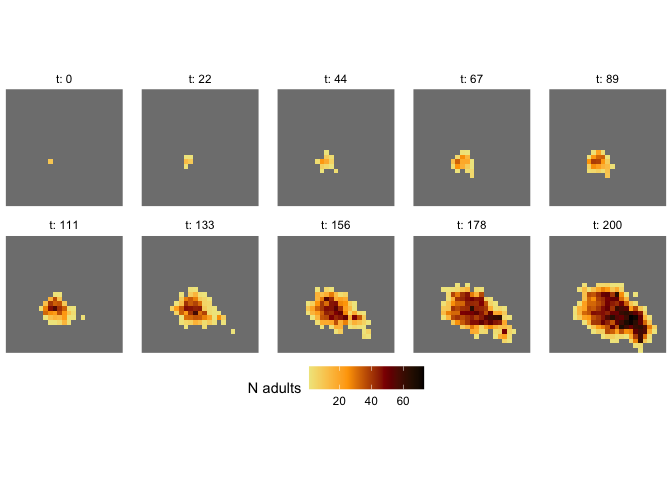
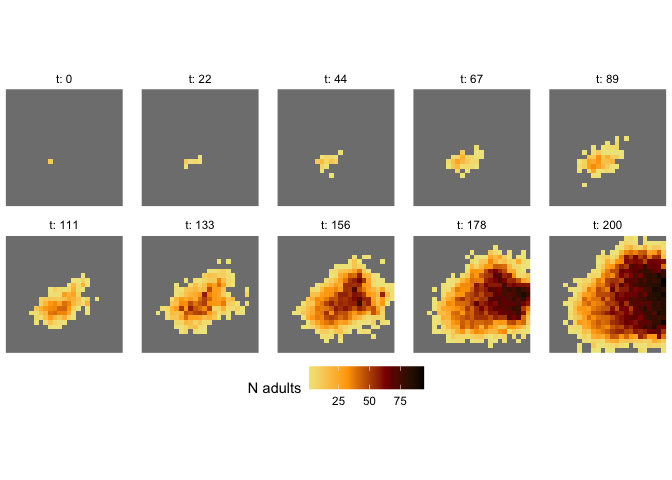
update readme

diff --git a/README.md b/README.md
@@ -53,6 +53,7 @@ gradient from 0 to 1.
 
 ``` r
 library(stranger)
+set.seed(123)
 
 stages <- c("s", "j", "a") # names for life history stages
 ls <- landscape_template(n_row = 25, n_col = 25, names = stages) # spatial data template
@@ -101,8 +102,8 @@ sp$alpha["a", "j"] <- .1
 sp$beta["a", "j", "a"] <- -.001
 
 # parameters for lognormal dispersal kernel
-sp$kernel$params$L <- .2
-sp$kernel$params$S <- 2
+sp$kernel$params$L <- .3
+sp$kernel$params$S <- 3
 ```
 
 #### Simulation
@@ -116,9 +117,6 @@ an array of populations over space and time.
 d <- simulate(sp, ls, # data and parameter inputs from above
               n_steps = 200, # number of iterations to simulate 
               record = 3) # record populations for life stage 3 (adults)
-#> Warning: `invoke()` is deprecated as of rlang 0.4.0.
-#> Please use `exec()` or `inject()` instead.
-#> This warning is displayed once every 8 hours.
 ```
 
 We can quickly visualize the output using a couple plotting functions.
